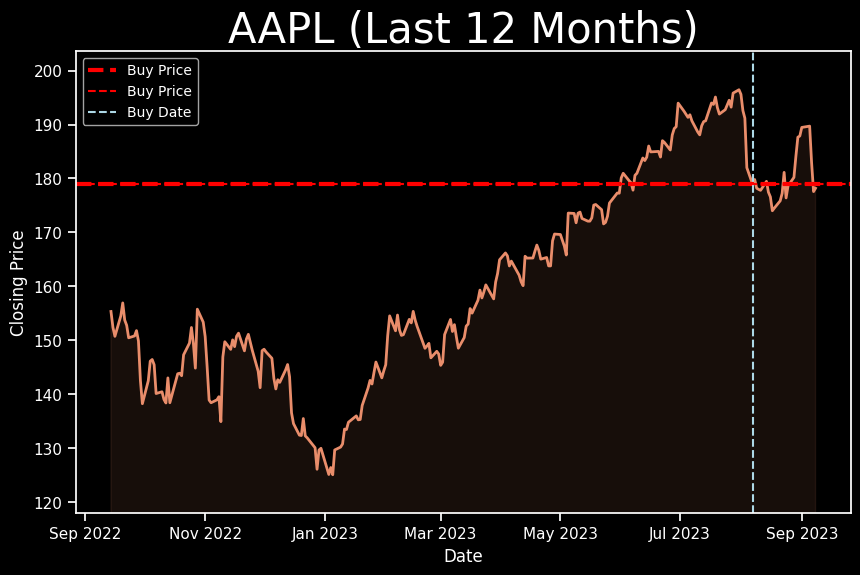
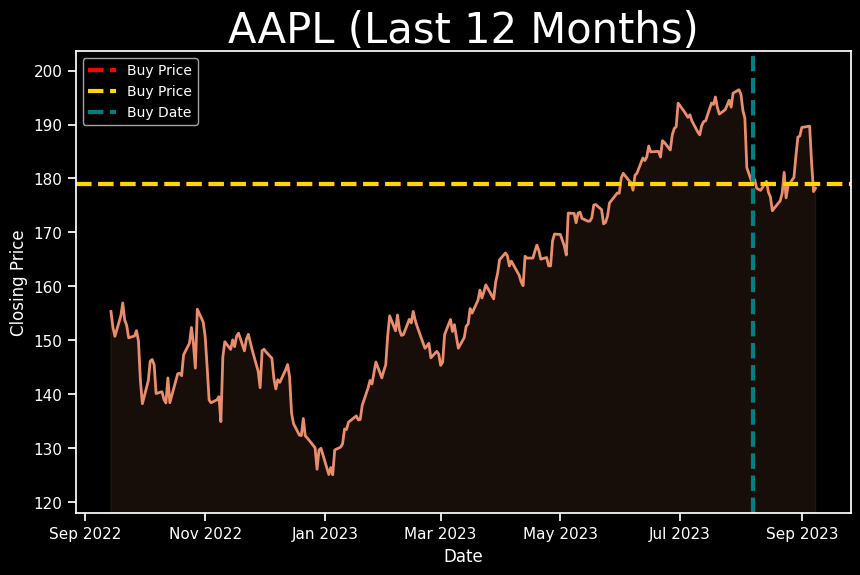
remove api

diff --git a/api/api/clients/portfolio.py b/api/api/clients/portfolio.py
@@ -1,0 +1,78 @@
+from pymongo import MongoClient
+import os
+from dotenv import load_dotenv
+
+# Load environment variables
+load_dotenv()
+
+# Database setup
+MONGODB_URI = os.getenv('MONGODB_URI')
+client = MongoClient(MONGODB_URI)
+db = client['theta']  # Assuming the database name is 'theta'
+
+accounts_collection = db['accounts']
+portfolios_collection = db['clients-portfolio']
+
+def add_user_portfolio(username, portfolio):
+    # Check if user exists
+    user = accounts_collection.find_one({"username": username})
+    if not user:
+        return {'error': 'User not found'}, 404
+
+    # Add/Update portfolio
+    portfolios_collection.update_one(
+        {"username": username},
+        {"$set": {"portfolio": portfolio}},
+        upsert=True  # If not exists, insert; otherwise, update
+    )
+    return {'status': 'Portfolio updated successfully'}, 200
+
+def fetch_user_portfolio(username):
+    portfolio_data = portfolios_collection.find_one({"username": username})
+    if not portfolio_data:
+        return {'error': 'No portfolio found for this user'}, 404
+    return portfolio_data['portfolio']
+
+
+def initialize_portfolio(username, buys):
+    
+    # Ensure the user exists
+    user = accounts_collection.find_one({"username": username})
+    if not user:
+        return {'error': 'User not found'}, 404
+
+    # Insert portfolio for user
+    portfolios_collection.update_one(
+        {"username": username},
+        {
+            "$set": {
+                "username": username,
+                "holdings": buys
+            }
+        },
+        upsert=True  # If user doesn't have a portfolio, create one
+    )
+
+    return {'status': 'Portfolio initialized successfully'}, 200
+
+
+def add_stock_buy(username, ticker, shares, date):
+    # Check if user exists
+    user = accounts_collection.find_one({"username": username})
+    if not user:
+        return {'error': 'User not found'}, 404
+
+    # Add the new stock buy to the holdings
+    new_stock_buy = {
+        "ticker": ticker,
+        "shares": shares,
+        "date": date
+    }
+    portfolios_collection.update_one(
+        {"username": username},
+        {"$push": {"holdings": new_stock_buy}},  # $push will add new_stock_buy to the holdings array
+        upsert=True  # If user doesn't have a portfolio, create one
+    )
+
+    return {'status': 'Stock buy added successfully'}, 200
+

diff --git a/api/api/routes.py b/api/api/routes.py
@@ -10,6 +10,8 @@ from .theta.login import login
 from .beta.save_index import save_user_index as core_save_index
 from .beta.save_index import fetch_saved_indexes
 from .theta.update_profile import update_user_profile
+from .clients.portfolio import add_user_portfolio, fetch_user_portfolio, initialize_portfolio,add_stock_buy
+
 
 
 import json
@@ -107,3 +109,55 @@ def update_profile():
         return result
     except Exception as e:
         return {'error': str(e)}, 500
+
+
+@auth_bp.route('/addPortfolio', methods=['POST'])
+def add_portfolio():
+    data = request.json
+    username = data.get('username')
+    portfolio = data.get('portfolio')
+
+    if not username or not portfolio:
+        return {'error': 'Required fields missing'}, 400
+
+    return add_user_portfolio(username, portfolio)
+
+@auth_bp.route('/getPortfolio/<string:username>', methods=['GET'])
+def get_portfolio(username):
+    return jsonify(fetch_user_portfolio(username))
+
+@auth_bp.route('/initializePortfolio', methods=['POST'])
+def initialize_client_portfolio():
+    print(request.json)
+    data = request.json
+    if not data:
+        return {'error': 'No data received'}, 400
+    elif "username" not in data:
+        return {'error': 'Username missing'}, 400
+    elif "buys" not in data:
+        return {'error': 'Buys missing'}, 400
+    for buy in data.get("buys", []):
+        if not all(key in buy for key in ["ticker", "shares", "date"]):
+            return {'error': 'Some buy entries are missing required fields'}, 400
+
+    username = data.get('username')
+    holdings = data.get('holdings')  # holdings should be a list of dictionaries
+
+    if not username or not holdings:
+        return {'error': 'Required fields missing'}, 400
+
+    return initialize_portfolio(username, holdings)
+
+
+@auth_bp.route('/addStockBuy', methods=['POST'])
+def add_stock_buy_route():
+    data = request.json
+    username = data.get('username')
+    ticker = data.get('ticker')
+    shares = data.get('shares')
+    date = data.get('date')
+
+    if not username or not ticker or shares is None or not date:  # Shares can be 0 but not None
+        return {'error': 'Required fields missing'}, 400
+
+    return add_stock_buy(username, ticker, shares, date)

diff --git a/data_to_pic.py b/data_to_pic.py
@@ -40,12 +40,12 @@ def process_csv_files(csv_files):
             # If a buy_date is provided for the ticker, draw the vertical line
             if ticker in buy_details and "buy_price" in buy_details[ticker]:
                 buy_price = buy_details[ticker]["buy_price"]
-                ax.axhline(buy_price, color='red', linestyle='--', linewidth=3, label="Buy Price")
+                ax.axhline(buy_price, color='gold', linestyle='--', linewidth=3, label="Buy Price")
                 
                 # Get the date with the closest closing price to the buy_price
                 closest_date = data.iloc[(data['close'] - buy_price).abs().argsort()[:1]].index[0]
                 
-                ax.axvline(closest_date, color='lightblue', linestyle='--', linewidth=1.5, label="Buy Date")
+                ax.axvline(closest_date, color='teal', linestyle='--', linewidth=3, label="Buy Date")
                 ax.legend(loc="upper left", fontsize=10, facecolor="black")
 
 

diff --git a/api/api/alpha/alpha.py b/api/api/alpha/alpha.py
@@ -16,8 +16,8 @@ finnhub_api_key = os.getenv('FINNHUB_API_KEY')
 finnhub_client = finnhub.Client(api_key=finnhub_api_key)
 
 
-def calculate_decisions(tickers):
-    start_date = datetime.now() - timedelta(days=2*365)
+def calculate_decisions(tickers, days_back=2*365):
+    start_date = datetime.now() - timedelta(days=days_back)
     end_date = datetime.now()
 
     stock_data = {}

diff --git a/collage.py b/collage.py
@@ -3,6 +3,8 @@ import os
 
 folders, images = ['static/images/'], []
 
+
+
 for folder in folders:
     for filename in os.listdir(folder):
         if filename.endswith('.png'):

diff --git a/README.md b/README.md
@@ -61,17 +61,9 @@ Done!
 <br>
 
 ## API
+Kingston's tools are also available in REST API form. Check it out 
+<a href="https://github.com/gholtzap/kingston-api" target="_blank">here</a>.
 
-This is where I host Kingston's flask API.
-<br>
-Simply run ``python api/run.py`` to start the local server.
-<br>
-From there, you can connect to the API via normal HTTP requests.
-<br>
-Please note that you will need your own Finnhub API key stored in ``.env`` to return data. This API is not for public use yet.
-
-### Endpoints:
-- List of all endpoints and cURL / Javascript examples can be found in ``api/usage.md``
 ## Strategies
 #### Description: <br>
 Here you can run strategies that I have formulated throughout the years. They are named accordingly. 
